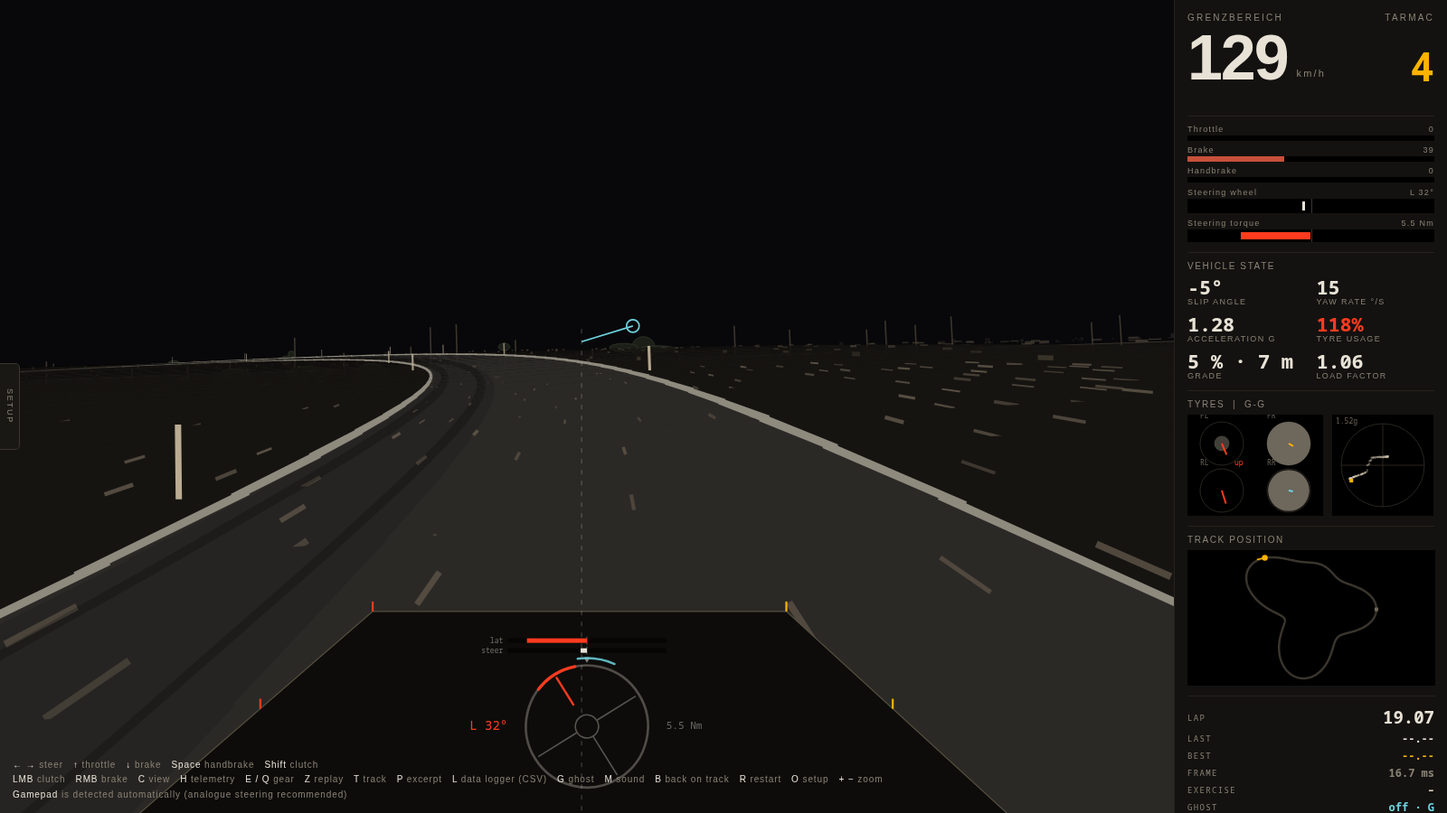
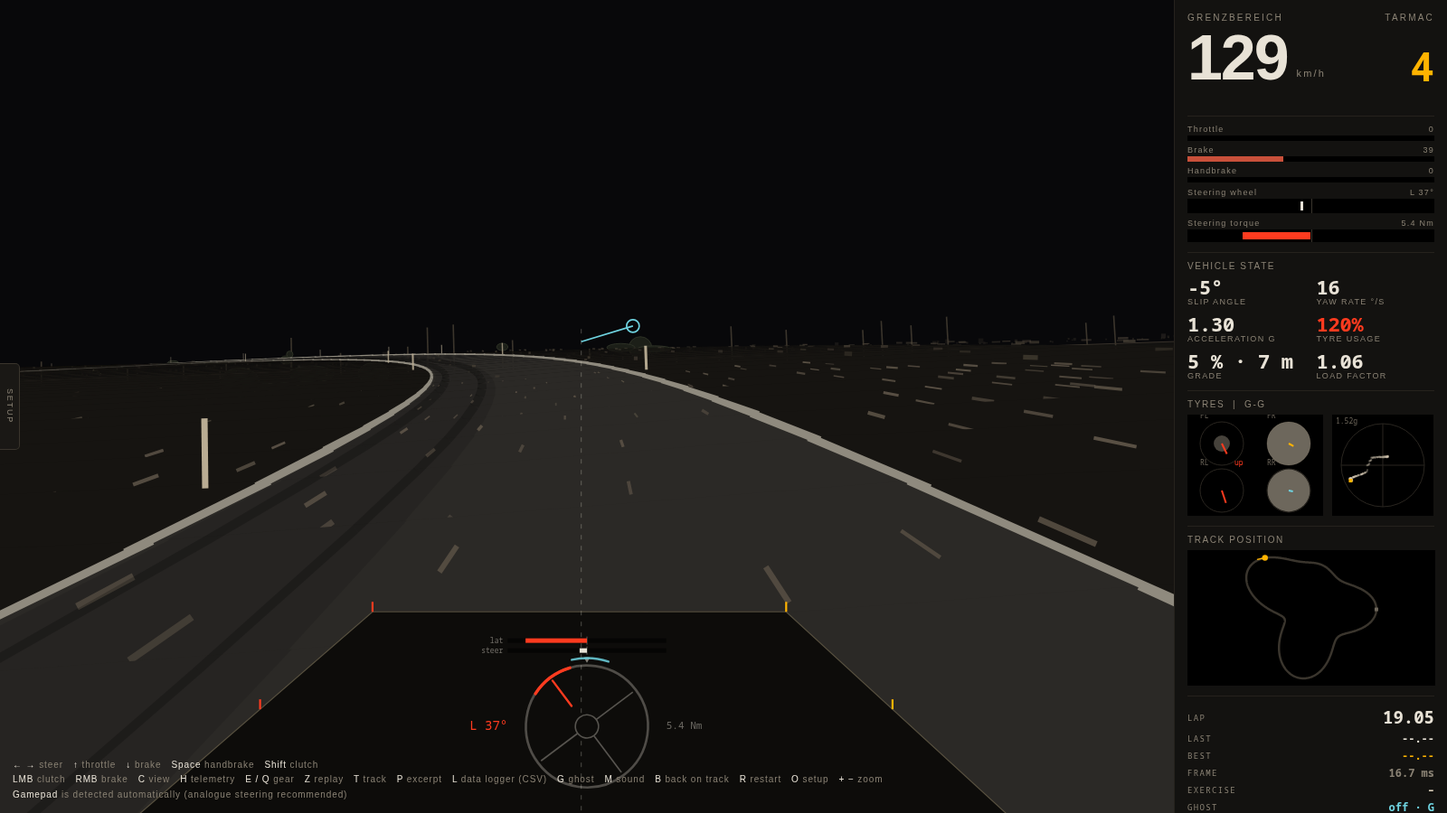
1.2.0: touch steering slider, no shifts mid-slide, revised RWD setup

diff --git a/index.html b/index.html
@@ -172,14 +172,17 @@ body.mobile #touchbar{display:flex}
 #touchbar button.hb{width:76px;height:76px}
 /* Start overlay for sensor and audio permissions */
 #start{position:absolute;inset:0;background:rgba(13,12,10,.92);display:none;align-items:center;justify-content:center;
-  flex-direction:column;gap:14px;z-index:60;text-align:center;padding:24px}
+  flex-direction:column;gap:14px;z-index:60;text-align:center;padding:24px;overflow:auto;-webkit-overflow-scrolling:touch;touch-action:pan-y}
 #start.on{display:flex}
 #start h1{font-size:12px;letter-spacing:.3em;text-transform:uppercase;color:var(--amber);font-weight:700}
 #start p{font-size:12px;color:var(--mute);max-width:420px;line-height:1.6}
 #start button{background:var(--amber);color:#111;border:0;padding:14px 28px;font-family:inherit;font-size:12px;
   letter-spacing:.2em;text-transform:uppercase;border-radius:4px}
 #trackmenu{position:absolute;inset:0;background:rgba(13,12,10,.94);display:none;flex-direction:column;align-items:center;
-  justify-content:center;gap:18px;z-index:55;padding:20px}
+  justify-content:center;gap:18px;z-index:55;padding:20px;overflow:auto;-webkit-overflow-scrolling:touch;touch-action:pan-y}
+/* small screens: start at the top so a long menu can scroll instead of being clipped on both ends */
+body.mobile #trackmenu,body.mobile #start{justify-content:flex-start;padding-top:max(20px,env(safe-area-inset-top,0px))}
+body.mobile #trackgrid{grid-template-columns:repeat(auto-fit,minmax(130px,1fr));width:100%;max-width:760px}
 #trackmenu.on{display:flex}
 #trackmenu h1{font-size:12px;letter-spacing:.3em;text-transform:uppercase;color:var(--amber)}
 #trackmenu p{font-size:10px;letter-spacing:.14em;color:var(--mute);text-transform:uppercase}
@@ -211,15 +214,15 @@ body.mobile #tiltHint.on{display:block}
 <div id="stage">
   <canvas id="world"></canvas>
   <div id="flash"></div>
-  <div id="tiltHint">Left: swipe up = throttle, down = brake · Right: crank the wheel with your thumb</div>
+  <div id="tiltHint">Left: swipe up = throttle, down = brake · Right: slide left/right to steer</div>
   <div id="trackmenu"><h1>Choose a track</h1><div id="trackgrid"></div>
     <div id="profrow"><span>Elevation profile (Circuit)</span><div class="seg" id="segProf"><button data-v="1" class="on">On</button><button data-v="0">Flat</button></div></div>
     <p>T reopens this menu · Esc closes</p></div>
   <div id="start" class="on">
     <h1>Grenzbereich · Mobile mode</h1>
     <p>Landscape works best. Left half: swipe up for throttle, down for brake – the further from where
-       your thumb landed, the more pedal. Right half: turn the wheel with your thumb, like a crank;
-       it stays where you leave it. Handbrake bottom left, gears and view top right.</p>
+       your thumb landed, the more pedal. Right half: slide your thumb left and right on the bar at the
+       bottom to steer, like the mouse; it stays where you leave it. Handbrake bottom left, gears and view top right.</p>
     <button id="startBtn">Start</button>
   </div>
   <div id="touchbar">
@@ -297,6 +300,8 @@ body.mobile #tiltHint.on{display:block}
       <div class="seg" id="segMet">
         <button data-v="1" class="on">metered (driver)</button><button data-v="0">raw</button>
       </div></div>
+    <div class="set"><label>Touch steering</label>
+      <div class="seg" id="segTmode"><button data-v="slider" class="on">slider (like the mouse)</button><button data-v="wheel">thumb crank</button></div></div>
     <div class="set"><label>Thumb wheel ratio <b><span id="vTr">2.2</span>× thumb angle</b></label>
       <input type="range" id="rTr" min="10" max="40" step="1" value="22"></div>
     <div class="set"><label>Thumb wheel</label>
@@ -680,9 +685,13 @@ function rutSlope(idx,n){      // dz/dn of the ruts
    willing to rotate. Selecting a drivetrain loads its values; the sliders
    stay free to change afterwards. */
 const DRIVE_SETUP={
-  awd:{lsd:0.40,lsdCoast:0.25,roll:0.43,toeR:0.15,rollSteerR:0.10},
-  fwd:{lsd:0.40,lsdCoast:0.25,roll:0.43,toeR:0.15,rollSteerR:0.10},
-  rwd:{lsd:0.60,lsdCoast:0.40,roll:0.48,toeR:0.25,rollSteerR:0.14}
+  awd:{lsd:0.40,lsdCoast:0.25,roll:0.43,toeR:0.15,rollSteerR:0.10,bias:0.76},
+  fwd:{lsd:0.40,lsdCoast:0.25,roll:0.43,toeR:0.15,rollSteerR:0.10,bias:0.76},
+  /* RWD: halfway between a neutral race setup and a forgiving one – a plated
+     1.5-way diff with 45/60 ramps (≈68/45 %), roll stiffness just front of
+     centre, 0.3° rear toe-in, roll understeer at the rear, brake bias a touch
+     further forward since the rear also carries the engine braking. */
+  rwd:{lsd:0.68,lsdCoast:0.45,roll:0.52,toeR:0.32,rollSteerR:0.17,bias:0.78}
 };
 /* Setup templates: complete, measured sets of the setup values, applied at
    once. The drivetrain choice still loads its rear-axle values on top. */
@@ -703,7 +712,7 @@ function applySetupTemplate(name){
 }
 function applyDriveSetup(drive){
   const d=DRIVE_SETUP[drive]; if(!d)return;
-  cfg.lsd=d.lsd; cfg.lsdCoast=d.lsdCoast; cfg.roll=d.roll;
+  cfg.lsd=d.lsd; cfg.lsdCoast=d.lsdCoast; cfg.roll=d.roll; if(d.bias!==undefined)cfg.bias=d.bias;
   CAR.toeR=d.toeR*Math.PI/180; CAR.bsR=d.rollSteerR*2/CAR.tR;
 }
 const VERGE=6;   // verge: up to here the terrain follows the cross slope, beyond it a plateau
@@ -1571,13 +1580,14 @@ function autoShift(dt){
   // otherwise the automatic hunts between limiter (engine speed) and
   // downshift (vehicle speed) while the wheels spin.
   const rpmRefNext=S.gi<top?rpmRef*CAR.gears[S.gi+1].r/CAR.gears[S.gi].r:0;
-  if(S.rpm>7150&&S.gi<top&&IN.thr>0.25&&rpmRefNext>2800){
+  const sliding=Math.abs(Math.atan2(S.vy,Math.abs(S.vx)))>6/57.3;   // nobody shifts mid-slide: the cut is a lift-off, the blip a kick
+  if(S.rpm>7150&&S.gi<top&&IN.thr>0.25&&rpmRefNext>2800&&!sliding){
     /* At the limit the driver still has to shift – on a skidpad the corner never
        ends – but he lifts properly for it: a deeper, longer ease gives the tyres
        the longitudinal reserve to absorb the kick without spinning up. */
     if(!nearLimit||S.holdT>0.5){shift(1);if(atLimit){S.shiftEase=0.45;S.shiftEaseK=CAR.easeDeep;}else if(nearLimit){S.shiftEase=0.35;S.shiftEaseK=CAR.easeNear;}S.holdT=0;}
     else S.holdT+=dt;
-  }else{S.holdT=0;if(rpmRef<2650&&S.gi>2)shift(-1);}
+  }else{S.holdT=0;if(rpmRef<2650&&S.gi>2&&!sliding)shift(-1);}   // and no downshift mid-slide either: blip and engine braking would pulse the rear axle
   if(v<1.0&&S.gi===1&&IN.thr>0.2){S.gi=2;S.shiftLock=0.3;}
 }
 
@@ -1985,6 +1995,11 @@ function drawTouchUI(){
   if(TOUCH.brk>0){cx.fillStyle='#ff3b1f';cx.fillRect(bx-bw/2,by,bw,TOUCH.brk*bh);}
   cx.font=(9*DPR)+'px ui-monospace,monospace';cx.fillStyle='rgba(232,226,214,.45)';cx.textAlign='left';
   cx.fillText('throttle ▲',bx+12*DPR,by-bh+10*DPR);cx.fillText('brake ▼',bx+12*DPR,by+bh-4*DPR);
+  if(TOUCH.mode==='slider'){const g=sliderGeom();const lockHalf=CAR.lock*Math.PI/360;const k=g.xc-clamp(TOUCH.wheel/lockHalf,-1,1)*g.half;
+    cx.fillStyle='rgba(0,0,0,.35)';cx.fillRect(g.x0,g.y-5*DPR,g.x1-g.x0,10*DPR);
+    cx.fillStyle='rgba(232,226,214,.35)';for(const f of [-1,-0.5,0,0.5,1])cx.fillRect(g.xc-f*g.half-1*DPR,g.y-9*DPR,2*DPR,18*DPR);
+    cx.fillStyle=TOUCH.sx!==null?'rgba(255,179,0,.9)':'rgba(255,179,0,.6)';cx.beginPath();cx.arc(k,g.y,9*DPR,0,7);cx.fill();
+    cx.fillStyle='rgba(232,226,214,.45)';cx.textAlign='center';cx.fillText('◀ steer ▶',g.xc,g.y-14*DPR);cx.textAlign='left';}
 }
 function drawSteerHUD(){
   if(!cfg.steerHud)return;
@@ -2690,16 +2705,7 @@ function syncSetupUI(){
   const rs=CAR.bsR*CAR.tR/2;set('rBsR','vBsR',Math.round(rs*100),rs.toFixed(2));
   if(typeof rollLabel==='function')rollLabel();
 }
-function syncDriveSliders(){
-  const d=DRIVE_SETUP[cfg.drive]; if(!d)return;
-  const set=(id,out,val,txt)=>{const e=document.getElementById(id);if(e)e.value=val;const o=document.getElementById(out);if(o)o.textContent=txt;};
-  set('rLsd','vLsd',Math.round(d.lsd*100),Math.round(d.lsd*100));
-  set('rLsdC','vLsdC',Math.round(d.lsdCoast*100),Math.round(d.lsdCoast*100));
-  set('rRoll','vRoll',Math.round(d.roll*100),Math.round(d.roll*100));
-  set('rToeR','vToeR',Math.round(d.toeR*100),d.toeR.toFixed(2));
-  set('rBsR','vBsR',Math.round(d.rollSteerR*100),d.rollSteerR.toFixed(2));
-  if(typeof rollLabel==='function')rollLabel();
-}
+function syncDriveSliders(){syncSetupUI();}   // drivetrain change: full sync
 seg('segUni',(v,b,r)=>{exclusive(b,r);cfg.uniform=v==='1';});
 seg('segRoad',(v,b,r)=>{exclusive(b,r);cfg.driven=v==='1';});
 seg('segThr',(v,b,r)=>{exclusive(b,r);PED.threshold=v==='1';});
@@ -2717,6 +2723,7 @@ eqBind('rVol','vVol','vol',v=>v/100);
 rng('rTs','vTs',v=>TILT.sens=v);rng('rTp','vTp',v=>TILT.pedal=v);
 rng('rTr','vTr',v=>{TOUCH.ratio=v/10;document.getElementById('vTr').textContent=(v/10).toFixed(1);});
 seg('segTret',(v,b,r)=>{exclusive(b,r);TOUCH.ret=v==='1';});
+seg('segTmode',(v,b,r)=>{exclusive(b,r);TOUCH.mode=v;});
 seg('segMouse',(v,b)=>{cfg.mouse=!cfg.mouse;b.classList.toggle('on',cfg.mouse);if(!cfg.mouse)msAbs=false;});
 seg('segFlow',(v,b)=>{cfg[v]=!cfg[v];b.classList.toggle('on',cfg[v]);});
 seg('segRef',(v,b)=>{cfg[v]=!cfg[v];b.classList.toggle('on',cfg[v]);});
@@ -3230,28 +3237,38 @@ function ffbUpdate(){
    the thumb around its centre; the angle the thumb travels around the hub is
    multiplied by a ratio into steering-wheel angle, and the wheel stays where
    it is left, like the mouse. Tilt steering remains available as an option. */
-const TOUCH={ratio:2.2, range:0.34, ret:false, thr:0, brk:0, wheel:0, pedalId:null, wheelId:null, y0:0, a0:0, w0:0, thumb:null};
-function touchZone(x,y){const W=cv.clientWidth;return x<W*0.42?'pedal':x>W*0.52?'wheel':null;}
-function wheelGeom(){const W=cv.width,H=cv.height;const R=clamp(Math.min(W,H)*0.17,60*DPR,130*DPR);return {R,ox:W-R-26*DPR,oy:H-R-30*DPR};}
+const TOUCH={mode:'slider', ratio:2.2, range:0.34, ret:false, thr:0, brk:0, wheel:0, pedalId:null, wheelId:null, y0:0, upR:1, dnR:1, a0:0, w0:0, thumb:null, sx:null};
+function touchZone(x,y){const W=cv.clientWidth;return x<W*0.42?'pedal':x>W*0.50?'wheel':null;}
+function wheelGeom(){const W=cv.width,H=cv.height;const R=clamp(Math.min(W,H)*0.15,52*DPR,110*DPR);return {R,ox:W-R-26*DPR,oy:H-R-(TOUCH.mode==='slider'?64:30)*DPR};}
+/* Steering slider: the horizontal position of the thumb in the right half is
+   the steering-wheel angle, absolute, like the mouse – centre of the track is
+   straight ahead, the ends are full lock. Lifting the thumb keeps the angle
+   (or returns it, see setup). */
+function sliderGeom(){const W=cv.width,H=cv.height;const x0=W*0.53+16*DPR,x1=W-16*DPR;return {x0,x1,xc:(x0+x1)/2,half:(x1-x0)/2,y:H-34*DPR};}
 function setupTouch(){
   const lockHalf=CAR.lock*Math.PI/360;
   cv.addEventListener('pointerdown',e=>{
     if(e.pointerType==='mouse')return;
     const r=cv.getBoundingClientRect(),x=e.clientX-r.left,y=e.clientY-r.top,z=touchZone(x,y);
-    if(z==='pedal'&&TOUCH.pedalId===null){TOUCH.pedalId=e.pointerId;TOUCH.y0=y;}
-    else if(z==='wheel'&&TOUCH.wheelId===null){const g=wheelGeom();TOUCH.wheelId=e.pointerId;TOUCH.a0=Math.atan2(y*DPR-g.oy,x*DPR-g.ox);TOUCH.w0=TOUCH.wheel;TOUCH.thumb=TOUCH.a0;}
+    if(z==='pedal'&&TOUCH.pedalId===null){TOUCH.pedalId=e.pointerId;TOUCH.y0=y;
+      // travel: a share of the screen height, but never more than the room the thumb actually has – full pedal must always be reachable
+      const H=cv.clientHeight;TOUCH.upR=Math.max(40,Math.min(H*TOUCH.range,y-10));TOUCH.dnR=Math.max(40,Math.min(H*TOUCH.range,H-y-10));}
+    else if(z==='wheel'&&TOUCH.wheelId===null){TOUCH.wheelId=e.pointerId;
+      if(TOUCH.mode==='slider'){const g=sliderGeom();TOUCH.wheel=clamp(-(x*DPR-g.xc)/g.half,-1,1)*lockHalf;TOUCH.sx=x*DPR;}
+      else{const g=wheelGeom();TOUCH.a0=Math.atan2(y*DPR-g.oy,x*DPR-g.ox);TOUCH.w0=TOUCH.wheel;TOUCH.thumb=TOUCH.a0;}}
     cv.setPointerCapture&&cv.setPointerCapture(e.pointerId);e.preventDefault();
   },{passive:false});
   cv.addEventListener('pointermove',e=>{
     if(e.pointerType==='mouse')return;
     const r=cv.getBoundingClientRect(),x=e.clientX-r.left,y=e.clientY-r.top;
-    if(e.pointerId===TOUCH.pedalId){const d=(TOUCH.y0-y)/(cv.clientHeight*TOUCH.range);TOUCH.thr=clamp(d,0,1);TOUCH.brk=clamp(-d,0,1);}
-    else if(e.pointerId===TOUCH.wheelId){const g=wheelGeom();const a=Math.atan2(y*DPR-g.oy,x*DPR-g.ox);let da=a-TOUCH.a0;da=Math.atan2(Math.sin(da),Math.cos(da));
-      // unwrap over several turns: move the reference along
-      TOUCH.a0=a;TOUCH.w0=clamp(TOUCH.w0-da*TOUCH.ratio,-lockHalf,lockHalf);TOUCH.wheel=TOUCH.w0;TOUCH.thumb=a;}
+    if(e.pointerId===TOUCH.pedalId){const dy=TOUCH.y0-y;TOUCH.thr=clamp(dy/TOUCH.upR,0,1);TOUCH.brk=clamp(-dy/TOUCH.dnR,0,1);}
+    else if(e.pointerId===TOUCH.wheelId){
+      if(TOUCH.mode==='slider'){const g=sliderGeom();TOUCH.wheel=clamp(-(x*DPR-g.xc)/g.half,-1,1)*lockHalf;TOUCH.sx=x*DPR;}
+      else{const g=wheelGeom();const a=Math.atan2(y*DPR-g.oy,x*DPR-g.ox);let da=a-TOUCH.a0;da=Math.atan2(Math.sin(da),Math.cos(da));
+        TOUCH.a0=a;TOUCH.w0=clamp(TOUCH.w0-da*TOUCH.ratio,-lockHalf,lockHalf);TOUCH.wheel=TOUCH.w0;TOUCH.thumb=a;}}
     e.preventDefault();
   },{passive:false});
-  const rel=e=>{if(e.pointerId===TOUCH.pedalId){TOUCH.pedalId=null;TOUCH.thr=0;TOUCH.brk=0;}if(e.pointerId===TOUCH.wheelId){TOUCH.wheelId=null;TOUCH.thumb=null;}};
+  const rel=e=>{if(e.pointerId===TOUCH.pedalId){TOUCH.pedalId=null;TOUCH.thr=0;TOUCH.brk=0;}if(e.pointerId===TOUCH.wheelId){TOUCH.wheelId=null;TOUCH.thumb=null;TOUCH.sx=null;}};
   cv.addEventListener('pointerup',rel);cv.addEventListener('pointercancel',rel);
 }
 function touchInput(dt){
@@ -3324,7 +3341,7 @@ function setupMobile(){
 }
 function setupMenuTiers(){
   const more=['View','Eye height','Field of view','Optical flow','References','Overlays','Top-view camera','Damping','Toe front','Toe rear','Roll steer','Torque split','Axle diff lock (coast)',
-    'Road roughness','Centre of gravity','Static camber','Input device','Keyboard pedal','Mouse steering','Mouse travel','Thumb wheel','Tilt control',
+    'Road roughness','Centre of gravity','Static camber','Input device','Keyboard pedal','Mouse steering','Mouse travel','Thumb wheel ratio','Thumb wheel','Tilt control',
     'Tilt for','Pitch for','Volume','Force feedback','Feedback strength'];
   const setup=document.getElementById('setup');
   const box=document.createElement('div');box.id='setMore';

diff --git a/test/rwdmid.js b/test/rwdmid.js
@@ -1,0 +1,19 @@
+const {loadEngine}=require('./load');const DEG=180/Math.PI,G=9.81;const clamp=(v,a,b)=>v<a?a:v>b?b:v;const f=(x,d=2)=>(+x).toFixed(d);
+const SET={'previous RWD default':{lsd:0.60,lsdCoast:0.40,roll:0.48,toeR:0.25,rs:0.14,toeF:-0.10,rollGrad:3.2,dmp:1.0,bias:0.76},'new RWD default':null,
+ 'forgiving':{lsd:0.78,lsdCoast:0.52,roll:0.57,toeR:0.40,rs:0.20,toeF:0.05,rollGrad:3.8,dmp:1.25,bias:0.80},'RWD drift':'tpl'};
+function fresh(surface,name){const E=loadEngine();Object.assign(E.cfg,{surface,drive:'rwd',auto:true,steer:'direct',uniform:true,profile:false,driven:false});E.VERT.amp=0;E.applyDriveSetup('rwd');const s=SET[name];
+  if(s==='tpl')E.applySetupTemplate('RWD drift');else if(s){E.cfg.lsd=s.lsd;E.cfg.lsdCoast=s.lsdCoast;E.cfg.roll=s.roll;E.cfg.rollGrad=s.rollGrad;E.cfg.bias=s.bias;E.VERT.dmpScale=s.dmp;E.CAR.toeF=s.toeF/DEG;E.CAR.toeR=s.toeR/DEG;E.CAR.bsR=s.rs*2/E.CAR.tR;if(E.rollBars)E.rollBars();}
+  E.selectTrack('rundkurs');return E;}
+function setSpeed(E,v,gi){const S=E.S,CAR=E.CAR;S.vx=v;S.vy=0;S.r=0;S.delta=0;S.dComp=0;S.psi=0;S.x=0;S.y=0;const w=v/CAR.Rw;S.w=[w,w,w,w];S.gi=gi||3;S.rpm=w*CAR.gears[S.gi].r*CAR.final*9.55;S.we=S.rpm*0.10472;S.shiftLock=0.4;E.vertInit();}
+function hold(E,vT,c){const e=vT-Math.hypot(E.S.vx,E.S.vy);c.I=clamp((c.I||0)+e*E.DT*0.6,-0.9,0.9);const u=0.35*e+c.I;E.IN.thr=clamp(u,0,1);E.IN.brk=clamp(-u*0.5,0,1);}
+function skid(E){const S=E.S,L=E.CAR.a+E.CAR.b,vT=60/3.6;setSpeed(E,vT);const c={};for(let i=0;i<720;i++){hold(E,vT,c);E.step(E.DT);}let t=0,ayMax=0,inR=1e9,past=false;const lin=[];
+  while(t<40){const d=0.5/DEG*t;E.IN.steer=d/E.CAR.maxSteer;hold(E,vT,c);E.step(E.DT);t+=E.DT;const ay=S.ay;if(ay>=0.3*G)past=true;if(!past&&ay>0.1*G)lin.push([ay,d]);if(ay>ayMax){ayMax=ay;inR=S.Fz[2];}if(ay<0.9*ayMax&&d*DEG>5)break;}
+  const n=lin.length;let sx=0,sy=0,sxx=0,sxy=0;for(const [a,d] of lin){sx+=a;sy+=d;sxx+=a*a;sxy+=a*d;}return {ay:ayMax/G,inR,K:((n*sxy-sx*sy)/(n*sxx-sx*sx)-L/(vT*vT))*G*DEG};}
+function stab(E,thr){const S=E.S,vT=60/3.6;setSpeed(E,vT);const c={};for(let i=0;i<720;i++){hold(E,vT,c);E.step(E.DT);}E.IN.steer=((E.CAR.a+E.CAR.b)/(vT*vT)+(2/DEG)/G)*0.45*G/E.CAR.maxSteer;for(let i=0;i<1080;i++){hold(E,vT,c);E.step(E.DT);}const r0=S.r;let rMax=r0,bMax=0;for(let i=0;i<360;i++){E.IN.thr=thr;E.IN.brk=0;E.step(E.DT);rMax=Math.max(rMax,S.r);bMax=Math.max(bMax,Math.abs(Math.atan2(S.vy,S.vx))*DEG);}return {dr:(rMax/r0-1)*100,bMax};}
+function human(E){const S=E.S,CAR=E.CAR,vT=60/3.6;setSpeed(E,vT);const c={};for(let i=0;i<720;i++){hold(E,vT,c);E.step(E.DT);}const steer0=((CAR.a+CAR.b)/(vT*vT)+(2/DEG)/G)*0.45*G/CAR.maxSteer;E.IN.steer=steer0;for(let i=0;i<1080;i++){hold(E,vT,c);E.step(E.DT);}
+  let t=0,bMax=0,tOut=null,sw=steer0,spun=false;for(let i=0;i<Math.round(4/E.DT);i++){const b=Math.atan2(S.vy,Math.abs(S.vx)),bd=b*DEG;if(t<0.5){E.IN.thr=1;E.IN.steer=steer0;}else{if(tOut===null&&Math.abs(bd)>5)tOut=t;if(tOut!==null&&t>tOut+0.25){const target=clamp(1.2*b/CAR.maxSteer,-300/(CAR.lock/2),300/(CAR.lock/2));const rate=500/(CAR.lock/2)*E.DT;sw+=clamp(target-sw,-rate,rate);E.IN.steer=sw;E.IN.thr=0;}else{E.IN.steer=steer0;E.IN.thr=1;}}
+    E.step(E.DT);t+=E.DT;bMax=Math.max(bMax,Math.abs(bd));if(Math.abs(bd)>90)spun=true;}return {bMax,spun};}
+function catchS(E,vk){const S=E.S;setSpeed(E,vk/3.6);let t=0,bMax=0,rec=null;for(let i=0;i<Math.round(4/E.DT);i++){const b=Math.atan2(S.vy,Math.abs(S.vx));if(t<0.7){E.IN.steer=0.6;E.IN.thr=1;}else{E.IN.steer=clamp(1.2*b/E.CAR.maxSteer,-1,1);E.IN.thr=0;}E.step(E.DT);t+=E.DT;bMax=Math.max(bMax,Math.abs(b)*DEG);if(t>0.7&&rec===null&&Math.abs(b)*DEG<5&&bMax>10)rec=t-0.7;}return {bMax,rec};}
+console.log('RWD setup                 surface | skidpad ay  inside-rear N  K °/g | stab 100% dr  beta | stab 60% dr beta | human catch beta | ideal catch 40: beta/t');
+for(const name of Object.keys(SET))for(const surface of ['tarmac','gravel']){const s=skid(fresh(surface,name)),p1=stab(fresh(surface,name),1),p6=stab(fresh(surface,name),0.6),h=human(fresh(surface,name)),c=catchS(fresh(surface,name),40);
+  console.log(name.padEnd(22),surface.padEnd(7),'|',f(s.ay),'  ',f(s.inR,0).padStart(5),'   ',f(s.K,1).padStart(5),'|',f(p1.dr,0).padStart(5)+'%',f(p1.bMax,0).padStart(3)+'°','|',f(p6.dr,0).padStart(4)+'%',f(p6.bMax,0).padStart(3)+'°','|',(h.spun?'SPIN':f(h.bMax,0)+'°').padStart(5),'|',f(c.bMax,0)+'°/'+(c.rec!==null?f(c.rec,1)+'s':'never'));}

diff --git a/test/rwdcatch2.js b/test/rwdcatch2.js
@@ -1,0 +1,28 @@
+// RWD: power-induced slide at 60 km/h on tarmac and gravel, then human-like counter-steer with reaction time and limited hand speed.
+const {loadEngine}=require('./load');const DEG=180/Math.PI,G=9.81;const clamp=(v,a,b)=>v<a?a:v>b?b:v;const f=(x,d=1)=>(+x).toFixed(d);
+function fresh(surface,mod){const E=loadEngine();Object.assign(E.cfg,{surface,drive:'rwd',auto:true,steer:'direct',uniform:true,profile:false,driven:false});E.VERT.amp=0;E.applyDriveSetup('rwd');mod&&mod(E);E.selectTrack('rundkurs');return E;}
+function setSpeed(E,v,gi){const S=E.S,CAR=E.CAR;S.vx=v;S.vy=0;S.r=0;S.delta=0;S.dComp=0;S.psi=0;const w=v/CAR.Rw;S.w=[w,w,w,w];S.gi=gi||3;S.rpm=w*CAR.gears[S.gi].r*CAR.final*9.55;S.we=S.rpm*0.10472;S.shiftLock=0.4;E.vertInit();}
+function hold(E,vT,c){const e=vT-Math.hypot(E.S.vx,E.S.vy);c.I=clamp((c.I||0)+e*E.DT*0.6,-0.9,0.9);const u=0.35*e+c.I;E.IN.thr=clamp(u,0,1);E.IN.brk=clamp(-u*0.5,0,1);}
+function run(lab,surface,drv,mod){const E=fresh(surface,mod);const S=E.S,CAR=E.CAR;const vT=60/3.6;setSpeed(E,vT);const c={};for(let i=0;i<720;i++){hold(E,vT,c);E.step(E.DT);}
+  const ayT=0.45;E.IN.steer=((CAR.a+CAR.b)/(vT*vT)+(2/DEG)/G)*ayT*G/CAR.maxSteer;for(let i=0;i<1080;i++){hold(E,vT,c);E.step(E.DT);}
+  const steer0=E.IN.steer;let t=0,bMax=0,rec=null,tOut=null,sw=E.IN.steer,rpmMin=1e9,spun=false;const o=[];
+  for(let i=0;i<Math.round(4/E.DT);i++){const b=Math.atan2(S.vy,Math.abs(S.vx));const bd=b*DEG;
+    if(t<0.5){E.IN.thr=1;E.IN.steer=steer0;}
+    else{if(tOut===null&&Math.abs(bd)>drv.trig)tOut=t;
+      if(tOut!==null&&t>tOut+drv.react){const target=clamp(drv.gain*b/CAR.maxSteer,-drv.max/(CAR.lock/2),drv.max/(CAR.lock/2));const rate=drv.rate/(CAR.lock/2)*E.DT;sw+=clamp(target-sw,-rate,rate);E.IN.steer=sw;E.IN.thr=drv.thr;}
+      else{E.IN.steer=steer0;E.IN.thr=1;}}
+    E.step(E.DT);t+=E.DT;bMax=Math.max(bMax,Math.abs(bd));rpmMin=Math.min(rpmMin,S.rpm);
+    if(tOut!==null&&rec===null&&Math.abs(bd)<5&&bMax>10&&t>tOut+0.3)rec=t-tOut;if(Math.abs(bd)>90)spun=true;
+    if(i%72===0&&t>0.4)o.push(f(t,1)+':b'+f(bd,0)+'/sw'+f(sw*CAR.lock/2,0)+'/rpm'+f(S.rpm,0));}
+  console.log(lab.padEnd(58),'beta max',f(bMax,0).padStart(3),spun?'SPIN':(rec!==null?'caught after '+f(rec)+' s':'not caught'),' rpm min',f(rpmMin,0),'  ',o.slice(0,9).join(' '));}
+const ideal={trig:3,react:0.0,gain:1.2,max:400,rate:5000,thr:0};
+const human={trig:5,react:0.25,gain:1.2,max:300,rate:500,thr:0};
+const humanThr={trig:5,react:0.25,gain:1.2,max:300,rate:500,thr:0.3};
+const slow={trig:8,react:0.35,gain:1.2,max:250,rate:350,thr:0};
+for(const surface of ['tarmac','gravel']){
+  run(surface+': ideal (instant, 1.2*beta, throttle off)',surface,ideal);
+  run(surface+': human (0.25 s, 500 deg/s, max 300 deg, throttle off)',surface,human);
+  run(surface+': human, keeps 30 % throttle',surface,humanThr);
+  run(surface+': slow human (0.35 s, 350 deg/s, max 250 deg)',surface,slow);
+  run(surface+': human, drift template',surface,human,E=>E.applySetupTemplate('RWD drift'));
+}

diff --git a/test/slideosc.js b/test/slideosc.js
@@ -1,0 +1,15 @@
+// Put the car directly into a big slide and watch for oscillations in yaw rate, rpm, wheel speed and forces.
+const {loadEngine}=require('./load');const DEG=180/Math.PI;const clamp=(v,a,b)=>v<a?a:v>b?b:v;const f=(x,d=1)=>(+x).toFixed(d);
+function run(lab,surface,beta0,vk,thr,steer,mode,kb){const E=loadEngine();Object.assign(E.cfg,{surface,drive:'rwd',auto:kb?true:false,steer:mode||'direct',uniform:true,profile:false,driven:false,mouse:false});E.VERT.amp=0;E.applyDriveSetup('rwd');E.selectTrack('rundkurs');const S=E.S,CAR=E.CAR;
+  const v=vk/3.6,b=beta0/DEG;S.vx=v*Math.cos(b);S.vy=-v*Math.sin(b);S.r=0.9;S.psi=0;const w=S.vx/CAR.Rw;S.w=[w,w,w,w];S.gi=3;S.rpm=Math.max(CAR.idle,w*CAR.gears[3].r*CAR.final*9.55);S.we=S.rpm*0.10472;E.vertInit();
+  let t=0;const rows=[];let prevR=S.r,flips=0,prevD=0;
+  for(let i=0;i<Math.round(2.5/E.DT);i++){if(kb){E.keys['arrowup']=thr>0;E.keys['arrowright']=steer<0;E.keys['arrowleft']=steer>0;if(i%6===0)E.readInput(1/60);}else{E.IN.thr=thr;E.IN.steer=steer;}
+    E.step(E.DT);t+=E.DT;const d=S.r-prevR;if(prevD*d<0&&Math.abs(d)>0.02)flips++;prevD=d;prevR=S.r;
+    if(i%18===0)rows.push(f(t,2)+':r'+f(S.r*DEG,0)+'/b'+f(Math.atan2(S.vy,Math.abs(S.vx))*DEG,0)+'/rpm'+f(S.rpm,0)+'/wR'+f(S.w[3]*CAR.Rw*3.6,0)+'/thr'+f(E.IN.thr,1));}
+  console.log(lab.padEnd(46),'yaw-rate reversals:',flips,'\n   '+rows.filter((x,i)=>i%2===0).join(' '));}
+run('tarmac beta 50, 50 km/h, throttle 0, steer -0.6','tarmac',50,50,0,-0.6);
+run('tarmac beta 50, 50 km/h, throttle 0.4','tarmac',50,50,0.4,-0.6);
+run('tarmac beta 50, 50 km/h, throttle 1.0','tarmac',50,50,1.0,-0.6);
+run('gravel beta 50, 50 km/h, throttle 0.4','gravel',50,50,0.4,-0.6);
+run('tarmac beta 50, keyboard: up held, right held','tarmac',50,50,1,-1,'direct',true);
+run('tarmac beta 50, keyboard, slip curve','tarmac',50,50,1,-1,'slip',true);

diff --git a/README.md b/README.md
@@ -68,11 +68,11 @@ Every merged change must keep `test/consistency.js` clean: 108 scenarios across 
 
 `R` reset · `B` back on track · `T` track menu · `O` setup · `V` top/driver view · `G` phantom · `Z` replay · `L` export CSV · `P` short excerpt · `H` hide HUD · `M` sound · `C` cycle views (driver, top, top north-up) · `+ −` zoom.
 
-On phones and tablets (landscape): swipe up on the left half for throttle and down for brake – the travel from where the thumb landed sets the pedal – and crank the steering wheel on the right with the thumb; it stays where you leave it (or returns to centre, see setup). Handbrake bottom left, gears and view top right. Tilt steering remains available as an option. Logitech wheels get constant-force feedback through WebHID in Chromium browsers.
+On phones and tablets (landscape): swipe up on the left half for throttle and down for brake – the travel from where the thumb landed sets the pedal, and full pedal is always within reach – and steer with the thumb on the horizontal slider at the bottom right, absolute like the mouse; it stays where you leave it (or returns to centre, see setup). A thumb-crank wheel is available as an alternative. Handbrake bottom left, gears and view top right. Tilt steering remains available as an option. Logitech wheels get constant-force feedback through WebHID in Chromium browsers.
 
 ## Setup
 
-Three templates load complete, measured setups: **Gravel** (the base: soft, rear-biased roll stiffness, 76 % front brake bias, diff locks 40/25 %), **Tarmac** (stiffer and lower, 52 % front roll stiffness so the inside rear stays on the ground at the limit, 82 % front brake, locks 40/25 %) and **RWD drift** (rear-wheel drive with a strong rear diff, 75/50 %, and a stable rear axle). Selecting a drivetrain loads its rear-axle values on top (rear-wheel drive: locks 60/40 %, 48 % front roll stiffness, 0.25° rear toe-in).
+Three templates load complete, measured setups: **Gravel** (the base: soft, rear-biased roll stiffness, 76 % front brake bias, diff locks 40/25 %), **Tarmac** (stiffer and lower, 52 % front roll stiffness so the inside rear stays on the ground at the limit, 82 % front brake, locks 40/25 %) and **RWD drift** (rear-wheel drive with a strong rear diff, 75/50 %, and a stable rear axle). Selecting a drivetrain loads its rear-axle values on top (rear-wheel drive: a plated 1.5-way diff at 68/45 %, 52 % front roll stiffness, 0.32° rear toe-in, 0.17 rear roll steer, 78 % front brake bias – halfway between a neutral race setup and a forgiving one).
 
 The setup panel (`O`) exposes the quantities a rally team would adjust: surface, drive type, centre lock and split, axle lock on drive and coast, brake bias, roll distribution and roll gradient, static camber, toe, rear roll steer, damping, CoG height, ABS and traction control as training aids, anti-lag, keyboard pedal travel and threshold braking, steering mode, road state, elevation profile, and the visual channels of the driver view.
 

diff --git a/CHANGELOG.md b/CHANGELOG.md
@@ -2,6 +2,16 @@
 
 The simulation was developed iteratively; each step below was measured against the test harness before it was kept.
 
+## 1.2.0
+
+- Mobile steering: a horizontal slider at the bottom right is now the default, absolute like the mouse (centre is straight ahead, the ends are full lock); the thumb-crank wheel stays available (setup: Touch steering). The first device test found the crank impractical.
+- Mobile pedals: the swipe travel adapts to the room the thumb has, so full pedal is always reachable. Start screen and track menu scroll on small screens.
+- Automatic gearbox never shifts while the car is sliding (|β| > 6°): an upshift's ignition cut is a lift-off, a downshift's blip and stronger engine braking pulse the rear axle in the middle of the slide.
+- RWD drivetrain setup revised: a plated 1.5-way diff at 68/45 % (was 60/40 %), 52 % front roll stiffness, 0.32° rear toe-in, 0.17 rear roll steer and 78 % brake bias. Power-on rotation on tarmac halved (+215 % → +102 % yaw rate on a full-throttle stab at 0.45 g), and the inside rear stays on the ground at the limit (the matrix INFO for RWD on tarmac is gone). Measured with `test/rwdmid.js` and `test/rwdsetup.js`.
+- Changing the drivetrain now syncs the whole setup panel, brake bias included.
+- New scenario scripts: `rwdmid.js` (RWD setups between neutral and forgiving), `rwdcatch2.js` (catching a power slide with human reaction time and hand speed), `slideosc.js` (oscillations in a big slide).
+- README screenshots re-taken: the setup panel shows the touch-steering choice.
+
 ## 1.1.0
 
 - Gamepad: a moving stick takes the steering back from the mouse, as the arrow keys do.

diff --git a/TODO.md b/TODO.md
@@ -41,7 +41,7 @@ Map a clutch pedal axis (gamepad/wheel) and bypass the launch and stall-protecti
 
 ## 9. Mobile controls: test on devices
 
-The swipe/thumb-wheel controls were built and rendered headless only. Check on a phone: zone widths (42 % / 52 % split), wheel radius, ratio 2.2, whether pointer capture works on iOS Safari, and whether the handbrake button collides with the pedal zone.
+First device test done (thumb crank impractical → slider added and made the default; pedal travel capped by the available room; overlays scroll). Still to check on a phone: slider track length and knob size, whether pointer capture survives the thumb leaving the canvas on iOS Safari, handbrake button versus the pedal zone, portrait layout.
 
 ## Minor
 
